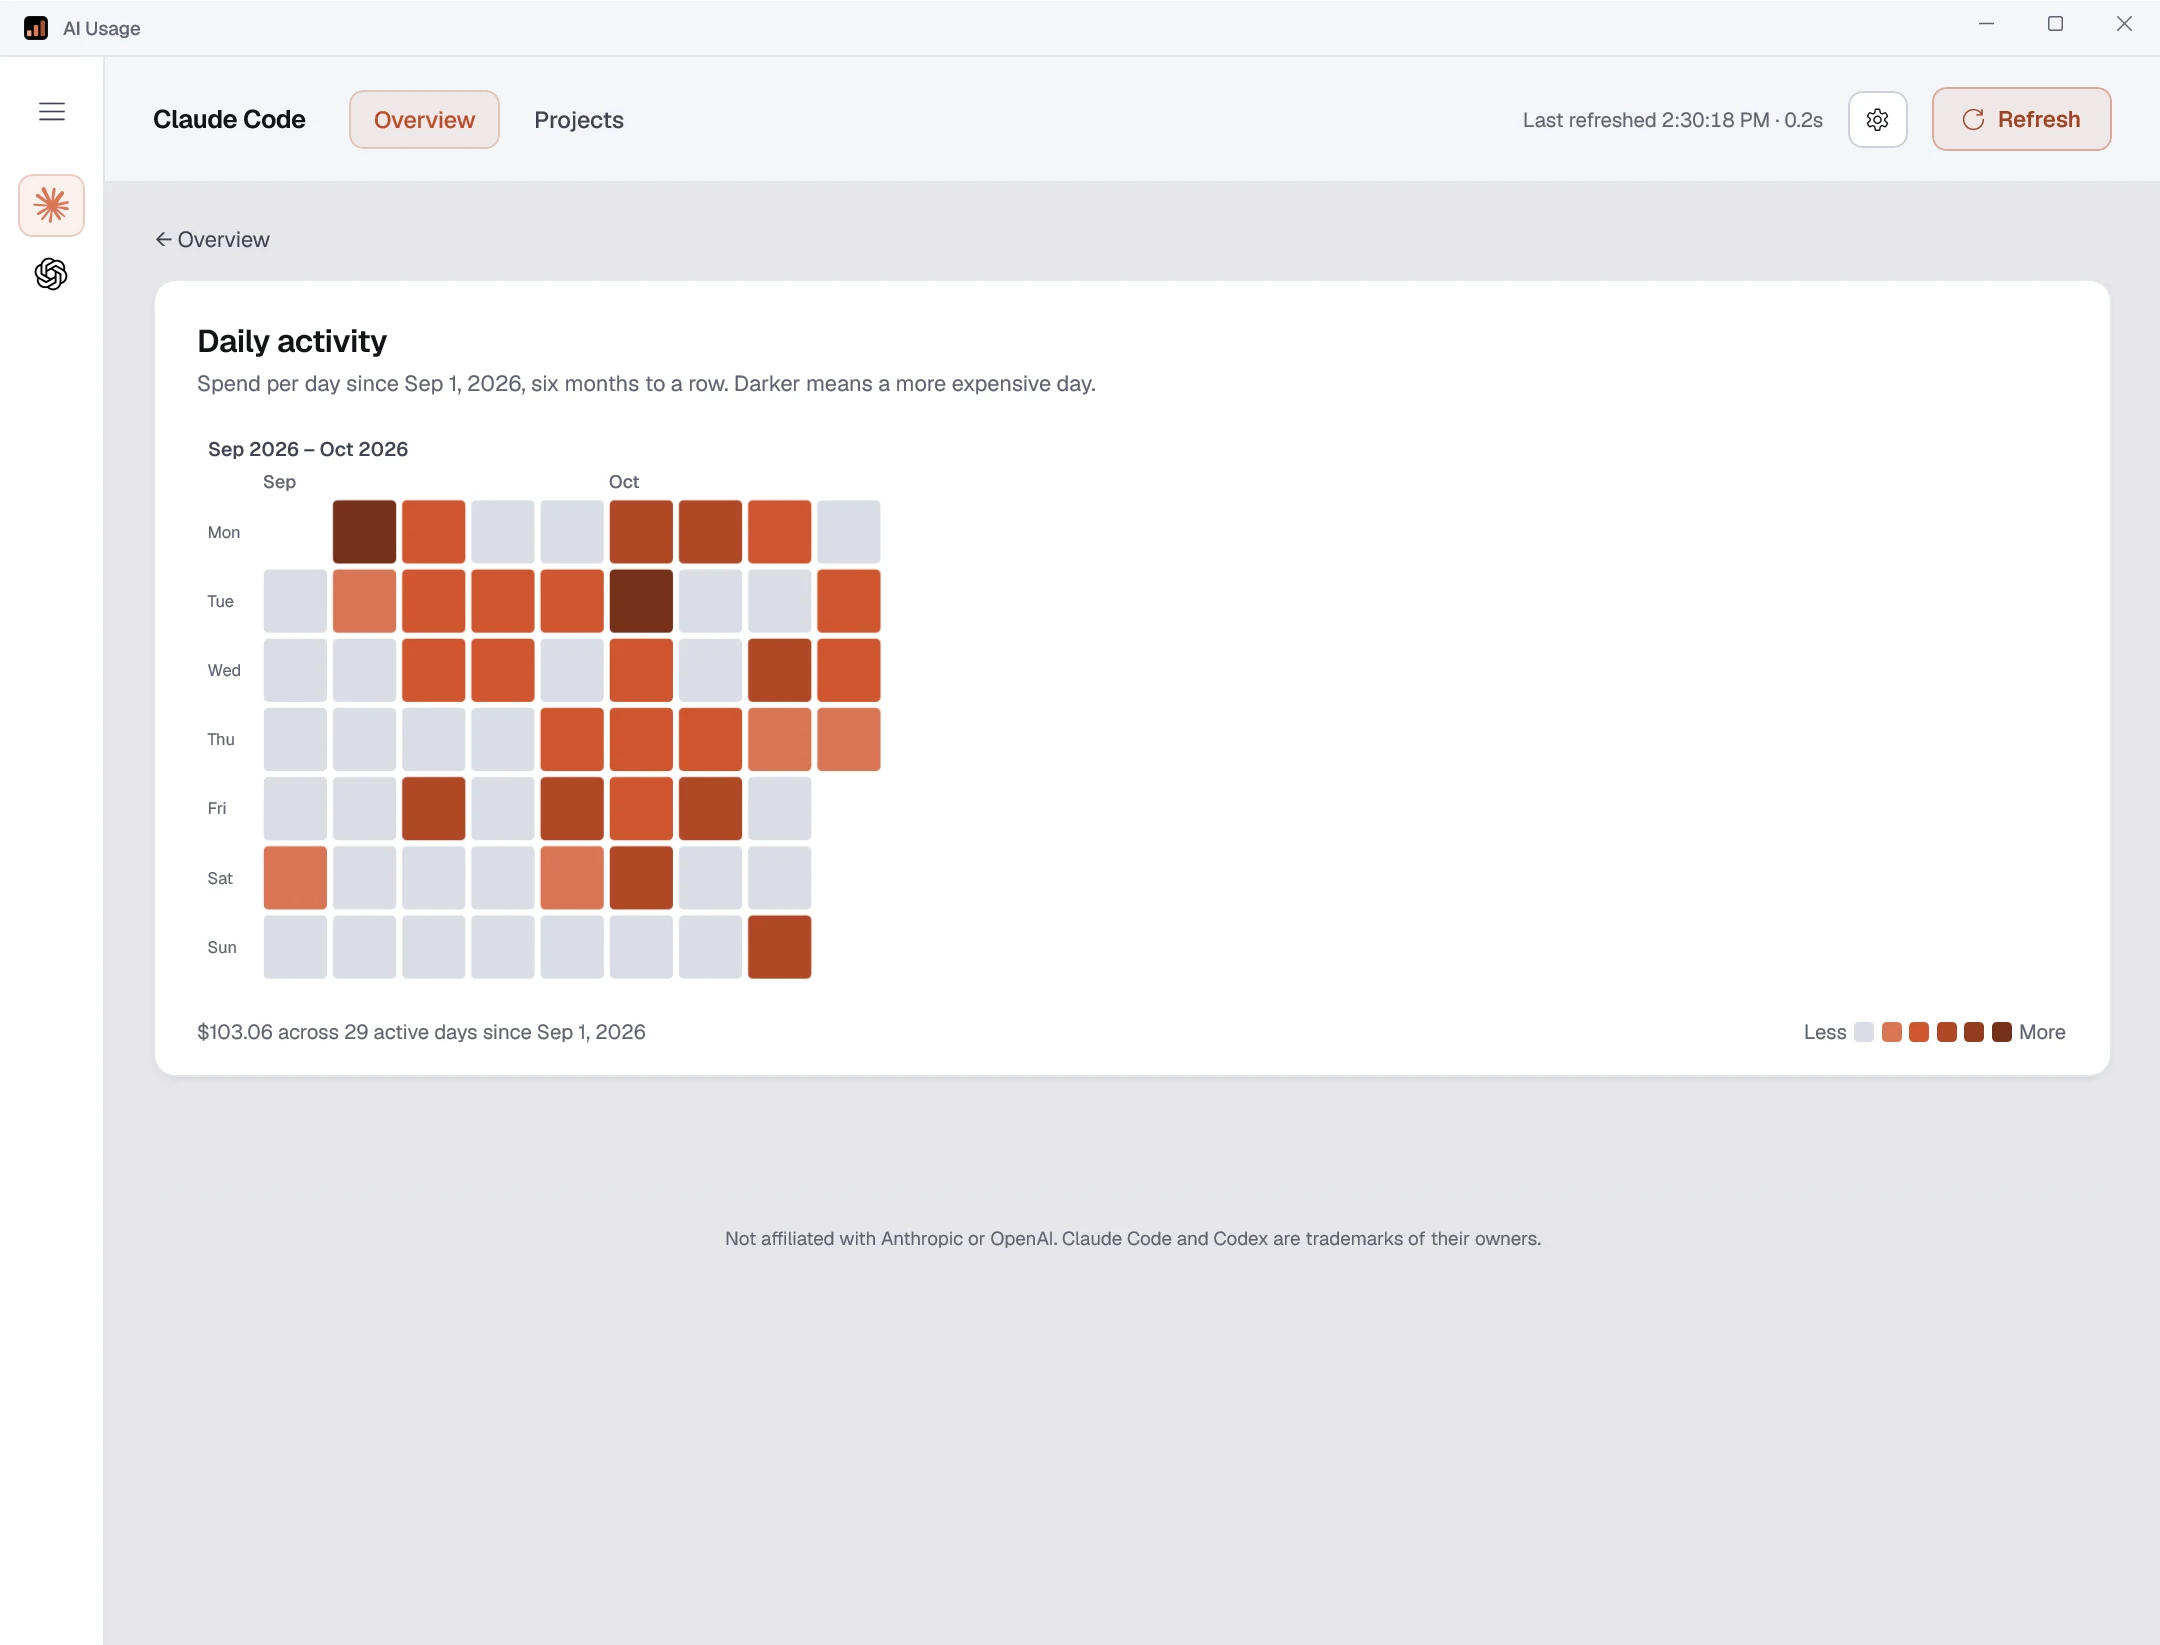
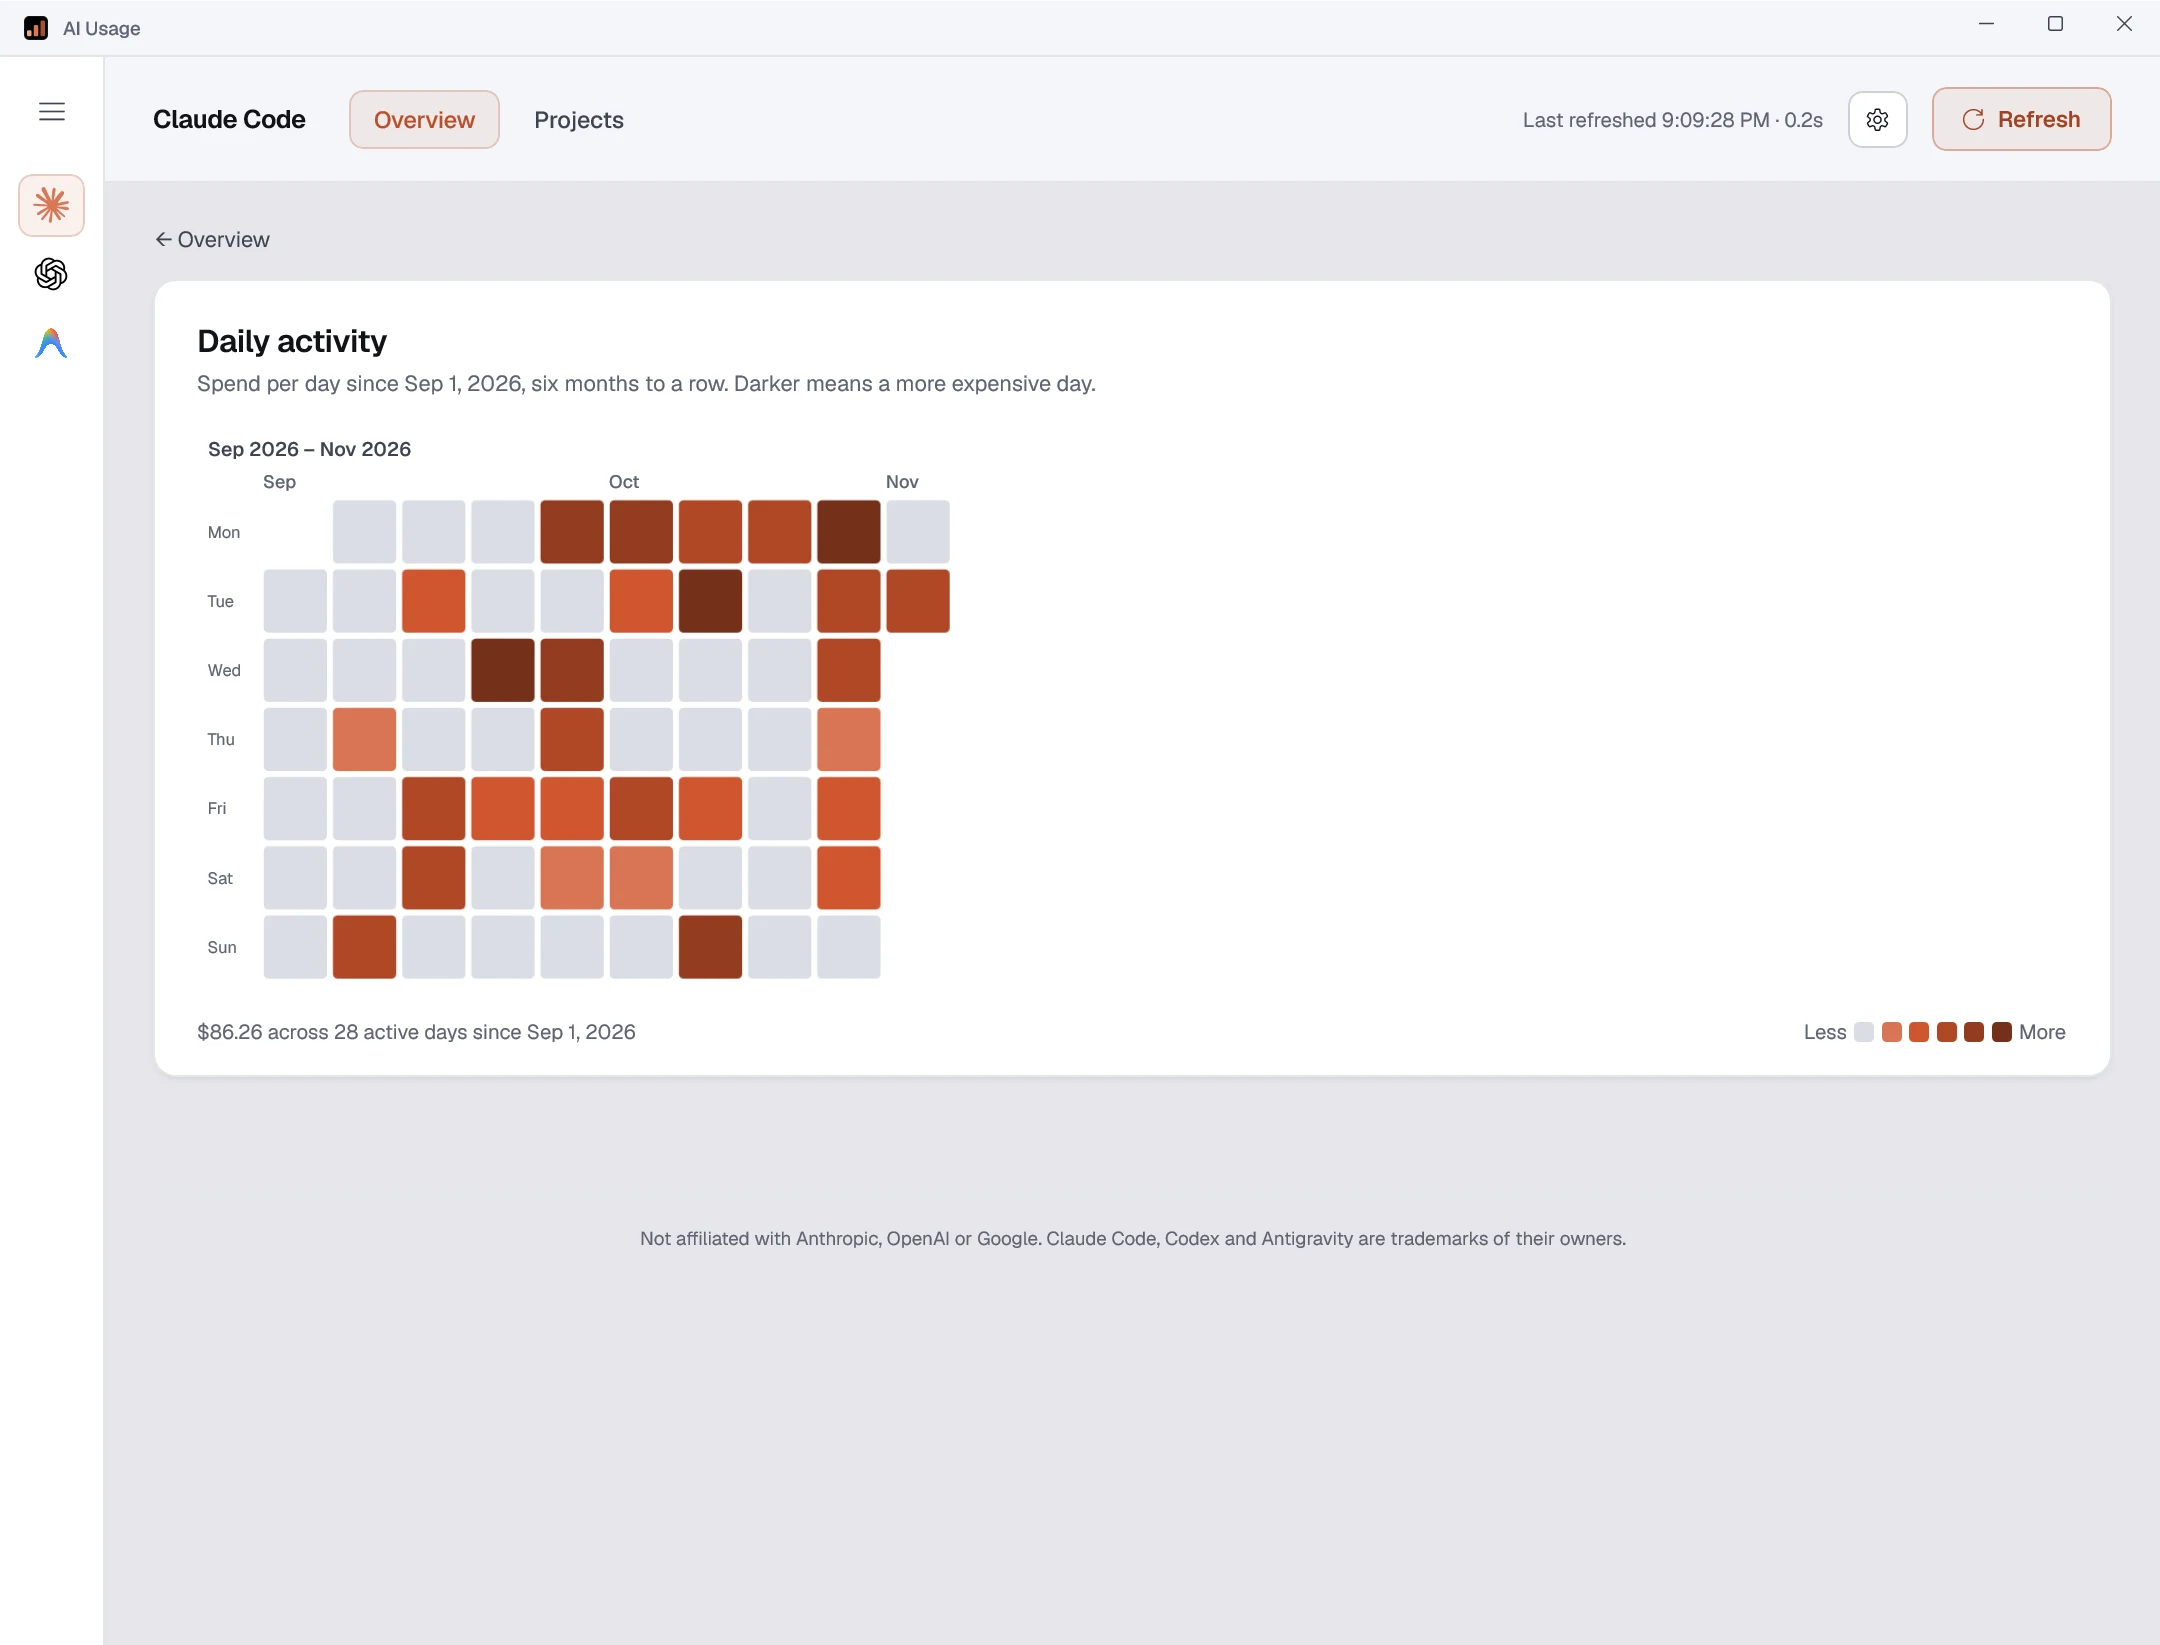
docs: add the Antigravity overview to the README screenshots

diff --git a/README.md b/README.md
@@ -19,7 +19,7 @@ the machine.
 </picture>
 
 <details>
-<summary><b>The projects page, and Codex</b></summary>
+<summary><b>The projects page, Codex and Antigravity</b></summary>
 
 Projects open with a share-of-spend ring, because a ranked list looks the same
 whether the top project is 60% of your spend or 15%. Each project is drawn in
@@ -37,6 +37,15 @@ OpenAI API: on a flat ChatGPT subscription they were never billed individually
 <picture>
   <source media="(prefers-color-scheme: light)" srcset="docs/screenshots/overview-codex-light.webp">
   <img src="docs/screenshots/overview-codex.webp" alt="The whole Codex overview, in its own teal accent, headed by its total estimated spend">
+</picture>
+
+Antigravity gets Google blue. Its figure is what its tokens would cost through
+each model's own API (Google's for Gemini, Anthropic's for Claude); Antigravity
+itself is billed by plan.
+
+<picture>
+  <source media="(prefers-color-scheme: light)" srcset="docs/screenshots/overview-antigravity-light.webp">
+  <img src="docs/screenshots/overview-antigravity.webp" alt="The whole Antigravity overview, in its own blue accent, headed by its total estimated spend, with Gemini and Claude models">
 </picture>
 
 </details>
